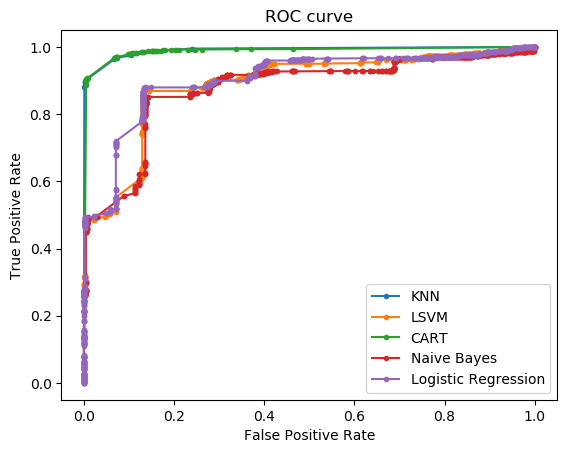
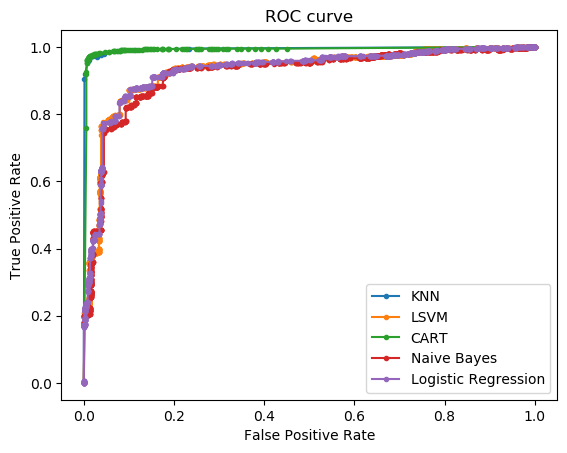
added sentiment analysis of dictionaries

Changed region(s): [[0.1199, 0.0927, 0.9594, 0.8344]]

diff --git a/GetTitleWordCounts.py b/GetTitleWordCounts.py
@@ -1,6 +1,8 @@
 import json
 import os
 from collections import Counter
+
+from nltk import LancasterStemmer
 from nltk.corpus import stopwords
 from nltk.tokenize import word_tokenize
 
@@ -11,21 +13,24 @@ articleData = []
 wordCount = {}
 tokenTitle = []
 summaryAllArticles = {}
+stem = LancasterStemmer()
 
 
 #  a subset of all sources for the articles in the NELA2017 dataset
-# sources = ["AP", "BBC", "PBS", "Salon", "Slate", "The New York Times", "BuzzFeed", "Drudge Report", "Faking News", "RedState",
-#            "The Gateway Pundit", "The Huffington Post"]
+sources = ["AP", "BBC", "PBS", "Salon", "Slate", "The New York Times", "BuzzFeed", "Drudge Report", "Faking News", "RedState",
+           "The Gateway Pundit", "The Huffington Post"]
 
 # second subset sources used to determine if the results so far are dependent on the current sources being used
-sources = ["CNN", "MotherJones", "NPR", "PBS", "The Hill", "Vox", "Addicting Info", "New York Daily News", "Prntly",
-           "The D.C. Clothesline", "The Duran", "Yahoo News"]
+# sources = ["CNN", "MotherJones", "NPR", "PBS", "The Hill", "Vox", "Addicting Info", "New York Daily News", "Prntly",
+#            "The D.C. Clothesline", "The Duran", "Yahoo News"]
 
 #  set of commonly used words such as "the", "a", "in" etc.
 englishStopWords = set(stopwords.words('english'))
-stopwords = englishStopWords.union(
+symbolStopwords = (
     {":", ";", "'", '"', '”', '“', ",", ".", "-", "_", "?", "$", "&", '...', '.', '�', '!', "''", "``", "%", "@", "--",
-     ")", "(", "[", "]", "[]", "[ ]", "’", "|", "‘", " "})
+     ")", "(", "[", "]", "[]", "[ ]", "’", "|", "‘", " ", "'s", 'mr', 'mrs', 'one', 'two', 'said', 'hi', 'say', "n't",
+     '—', 'the', 'mr.', 'mrs.', 'get', 'us', ' #', 'jr.', '–', 'i.r.', '■', 'ms.', '__', ''})
+stopwords = englishStopWords.union(symbolStopwords)
 
 #  listdir() returns a list containing the names of the entries in the directory path given
 # ['1_April', '2_May', '3_June', '4_July', '5_August', '6_September', '7_October'] is returned from NELA2017
@@ -50,7 +55,7 @@ for m in month_directories:  # go through all items in month_directories and get
 for s in sources:
     # clear the html data for each source
     summaryAllArticles.clear()
-    if not os.path.isfile("C:/Users/caire/Desktop/OutputData/OutputTitleArticles2/" + s + ".txt"):
+    if not os.path.isfile("C:/Users/caire/Desktop/OutputData/OutputTitleArticles/" + s + ".txt"):
         for p in articles_path:
             for d in p.date:
                 fileFound = True
@@ -80,16 +85,27 @@ for s in sources:
 
                                     # add word from the tokenized data to create a list of all words for that article
                                     for word in tokenTitle:
-                                        if word not in stopwords:
-                                            if word not in wordCount:
-                                                wordCount[word] = 1
-                                            else:
-                                                wordCount[word] += 1
+                                        # convert all words to lower case to avoid duplicates
+                                        word = word.lower()
+                                        #  remove the symbol stopwords
+                                        for char in word:
+                                            if char in symbolStopwords:
+                                                word = word.replace(char, "")
+                                        # check if the word contains a number or is a stopword
+                                        if not any(char.isdigit() for char in word):
+                                            if word not in stopwords:
+                                                # stem words to avoid duplication by pluralization
+                                                word = stem.stem(word)
+                                                # if word isn't already in the dict add it
+                                                if word not in wordCount:
+                                                    wordCount[word] = 1
+                                                else:  # else increase the value of that key in the dict
+                                                    wordCount[word] += 1
 
                                 except ValueError:
                                     print("JsonDecodeError for file " + articleTitle)
                         if len(wordCount) != 0:
-                            with open("C:/Users/caire/Desktop/OutputData/OutputTitleArticles2/" + s + ".txt", 'a', encoding='utf-8') as newFile:
+                            with open("C:/Users/caire/Desktop/OutputData/OutputTitleArticles/" + s + ".txt", 'a', encoding='utf-8') as newFile:
                                 newFile.write(str(Counter(wordCount)) + "\n")
                         wordCount.clear()
     print(s + "'s title words counted for each article and added to file")

diff --git a/SortContentWords.py b/SortContentWords.py
@@ -5,7 +5,8 @@ import numpy as np
 
 def main():
     #  a subset of all sources for the articles in the NELA2017 dataset
-    sources1 = ["The Huffington Post"]
+    sources1 = ["AP", "BBC"]#, "PBS", "Salon", "Slate", "The New York Times", "BuzzFeed", "Drudge Report", "Faking News",
+               # "RedState", "The Gateway Pundit", "The Huffington Post"]
 
     # # second subset sources used to determine if the results so far are dependent on the current sources being used
     # sources2 = ["CNN", "MotherJones", "NPR", "PBS", "The Hill", "Vox", "Addicting Info", "New York Daily News", "Prntly",
@@ -26,17 +27,16 @@ def main():
     # create a numpy array to send to csv file
     listOfDictionaryValues.append(str(list(listOfTags)))
     for s in sources1:
-        with open("C:/Users/caire/Desktop/OutputData/OutputWordsArticlesSorted/" + s + ".txt") as file:
+        with open("C:/Users/caire/Desktop/OutputData/OutputTitleArticlesSorted/" + s + ".txt") as file:
             print("adding article info for " + s)
             for cnt, line in enumerate(file):
-                if cnt > 2000:
-                    line = line.replace("Counter(", "").replace(")", "")
-                    lineDict = eval(line)
-                    listOfDictionaryValues.append(str(list(lineDict.values())) + s)
-                    print(cnt)
+                line = line.replace("Counter(", "").replace(")", "")
+                lineDict = eval(line)
+                listOfDictionaryValues.append(str(list(lineDict.values())) + s)
+                print(cnt)
 
     listForExcel = np.hstack(listOfDictionaryValues)
-    np.savetxt("C:/Users/caire/Desktop/OutputData/OutputHtmlExcel/outputWordCountForExcelArticles.csv", listForExcel,
+    np.savetxt("C:/Users/caire/Desktop/OutputData/OutputHtmlExcel/outputTitleCountForExcelArticles.csv", listForExcel,
                delimiter="\n", fmt='%s')
 
 
@@ -45,9 +45,11 @@ def get_list_of_all_words(sources1):
 
     # get a list of all tags
     for s1 in sources1:
-        with open("C:/Users/caire/Desktop/OutputData/OutputWordsArticles/" + s1 + ".txt", 'r', encoding='latin1') as file:
+        with open("C:/Users/caire/Desktop/OutputData/OutputTitleArticles/" + s1 + ".txt", 'r',
+                  encoding='latin1') as file:
             print(s1 + " adding words to list")
             for cnt, line in enumerate(file):
+                line = line.replace("Counter(", "").replace(")", "")
                 lineDict1 = eval(line)
                 for word1 in lineDict1.keys():
                     if word1 not in listOfAllWords:
@@ -58,11 +60,12 @@ def get_list_of_all_words(sources1):
 
 def sort_words(list_of_words, sources):
     for s in sources:
-        if not os.path.isfile("C:/Users/caire/Desktop/OutputData/OutputWordsArticlesSorted/" + s + ".txt"):
+        if not os.path.isfile("C:/Users/caire/Desktop/OutputData/OutputTitleArticlesSorted/" + s + ".txt"):
             dictKey = {}
             sortedArticles = []
             print(s + " sorted")
-            with open("C:/Users/caire/Desktop/OutputData/OutputWordsArticles/" + s + ".txt", 'r', encoding='utf-8') as file:
+            with open("C:/Users/caire/Desktop/OutputData/OutputTitleArticles/" + s + ".txt", 'r',
+                      encoding='utf-8') as file:
                 for cnt, line in enumerate(file):
                     line = line.replace("Counter(", "").replace(")", "")
                     if not line:
@@ -81,7 +84,8 @@ def sort_words(list_of_words, sources):
                     for tag in list_of_words:
                         getDictValues = {tag: lineDict[tag]}
                         sortedDict.update(getDictValues)
-                    with open("C:/Users/caire/Desktop/OutputData/OutputWordsArticlesSorted/" + s + ".txt", 'a') as newFile:
+                    with open("C:/Users/caire/Desktop/OutputData/OutputTitleArticlesSorted/" + s + ".txt",
+                              'a') as newFile:
                         newFile.write(str(sortedDict) + "\n")
 
 

diff --git a/ROCcurve.py b/ROCcurve.py
@@ -11,14 +11,14 @@ from matplotlib import pyplot
 
 def main():
     # read in the data and shuffle
-    df = pd.read_csv('C:/Users/caire/OneDrive/Documents/forth yr semester 1/Final Year '
-                     'Project/HTMLTagsIndividualArticlesNormalizedMinMax.csv', header=0, delimiter=",")
+    df = pd.read_csv("C:/Users/caire/Desktop/OutputData/OutputHtmlExcel/HTMLTagsNormalizedCombined.csv",
+                     header=0, delimiter=",")
     df = df.sample(frac=1)
 
     # find the attributes with the highest correlation to the class
     cor = df.corr(method='pearson')
     cor_target = abs(cor["Reliability"])
-    relevant_features = cor_target[cor_target > 0.3]
+    relevant_features = cor_target[cor_target > 0.2826]
     print(relevant_features)
     data = df[[relevant_features.index[0], relevant_features.index[1], relevant_features.index[2],
                relevant_features.index[3], relevant_features.index[4], 'Reliability']]

diff --git a/HTMLClassification.py b/HTMLClassification.py
@@ -52,7 +52,7 @@ def main():
 
     # read in the data from the .csv file and shuffle
     df = pd.read_csv(
-        'C:/Users/caire/OneDrive/Documents/forth yr semester 1/Final Year Project/HTMLTagsArticlesCombinedNormalized.csv',
+        "C:/Users/caire/Desktop/OutputData/OutputHtmlExcel/HTMLTagsNormalizedCombined.csv",
         header=0, delimiter=",")
     df = df.sample(frac=1)
 
@@ -97,7 +97,7 @@ def cross_validation_test(algorithm, algorithm_name, data, results):
 def feature_selection(dataframe):
     cor = dataframe.corr(method='pearson')
     cor_target = abs(cor["Reliability"])
-    relevant_features = cor_target[cor_target > 0.3]
+    relevant_features = cor_target[cor_target > 0.2826]
     print(relevant_features)
     data = dataframe[[relevant_features.index[0], relevant_features.index[1], relevant_features.index[2],
                       relevant_features.index[3], relevant_features.index[4]]]

diff --git a/LearningCurves.py b/LearningCurves.py
@@ -10,14 +10,14 @@ from matplotlib import pyplot
 
 def main():
     # read in the .csv file and shuffle
-    df = pd.read_csv('C:/Users/caire/OneDrive/Documents/forth yr semester 1/Final Year Project/HTMLTagsIndividualArticles2Normalized.csv',
+    df = pd.read_csv("C:/Users/caire/Desktop/OutputData/OutputHtmlExcel/HTMLTagsNormalizedCombined.csv",
                      header=0, delimiter=",")
     df = df.sample(frac=1)
 
     # find the attributes with the highest correlation to the class
     cor = df.corr(method='pearson')
     cor_target = abs(cor["Reliability"])
-    relevant_features = cor_target[cor_target > 0.3]
+    relevant_features = cor_target[cor_target > 0.2826]
     print(relevant_features)
     data = df[[relevant_features.index[0], relevant_features.index[1], relevant_features.index[2],
                relevant_features.index[3], relevant_features.index[4], 'Reliability']]

diff --git a/GetContentWordCounts.py b/GetContentWordCounts.py
@@ -33,7 +33,7 @@ englishStopWords = set(stopwords.words('english'))
 symbolStopwords = (
     {":", ";", "'", '"', '”', '“', ",", ".", "-", "_", "?", "$", "&", '...', '.', '�', '!', "''", "``", "%", "@", "--",
      ")", "(", "[", "]", "[]", "[ ]", "’", "|", "‘", " ", "'s", 'mr', 'mrs', 'one', 'two', 'said', 'hi', 'say', "n't",
-     '—', 'the', 'mr.', 'mrs.', 'get', 'us', ' #', 'jr.', '–', 'i.r.', '■', 'ms.', '__'})
+     '—', 'the', 'mr.', 'mrs.', 'get', 'us', ' #', 'jr.', '–', 'i.r.', '■', 'ms.', '__', ''})
 stopwords = englishStopWords.union(symbolStopwords)
 
 #  listdir() returns a list containing the names of the entries in the directory path given
